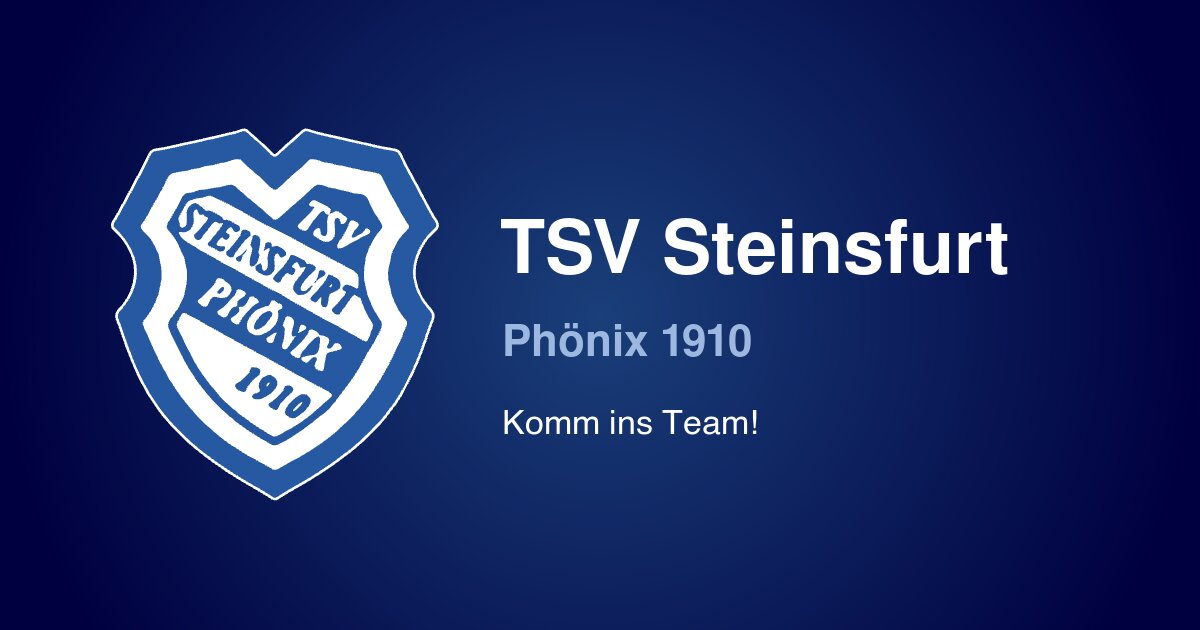
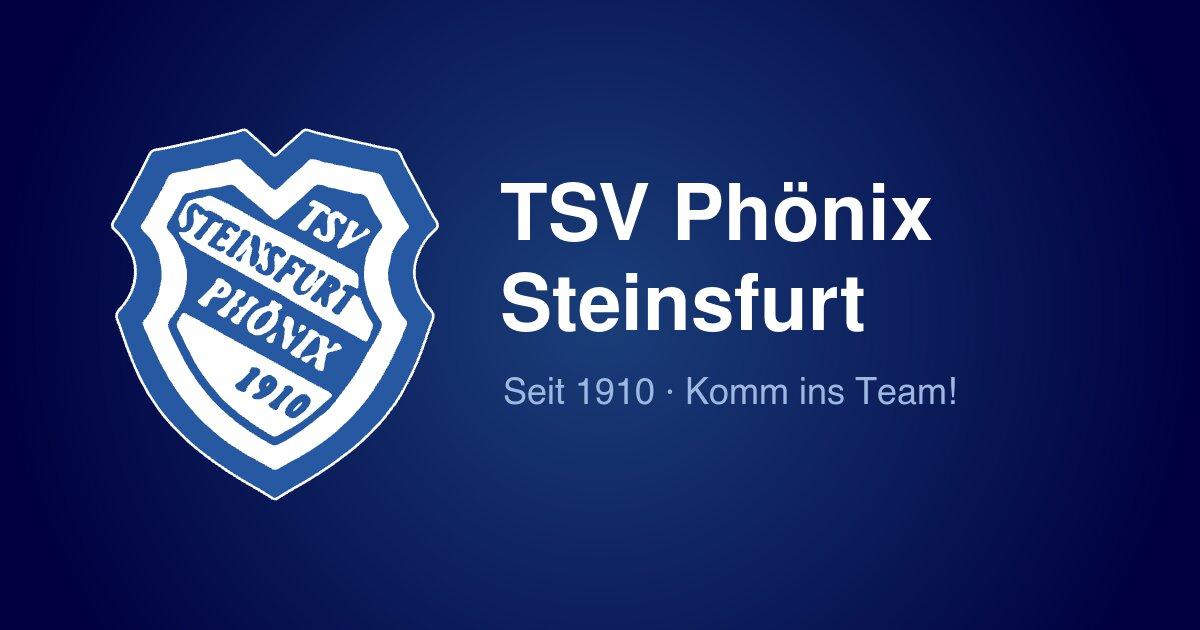
Rename club to "TSV Phönix Steinsfurt" everywhere
Page titles, hero eyebrow, about text, address, footer, imprint
placeholder, logo alt/aria labels, share image and README. Technical
identifiers (domain, e-mail addresses, file names, AWS stacks) are
unchanged.

Changed region(s): [[0.4008, 0.2714, 0.8633, 0.573], [0.4008, 0.6032, 0.8017, 0.6937]]

diff --git a/README.md b/README.md
@@ -1,6 +1,6 @@
-# TSV Steinsfurt – Recruitment One-Pager
+# TSV Phönix Steinsfurt – Recruitment One-Pager
 
-A single scrolling page that wins new players (aged 16–40) for TSV Steinsfurt. It's built with **Astro** as a static site and hosted on **AWS** (S3 in `eu-central-1` / Frankfurt behind CloudFront). It's deployed by **GitHub Actions**.
+A single scrolling page that wins new players (aged 16–40) for TSV Phönix Steinsfurt. It's built with **Astro** as a static site and hosted on **AWS** (S3 in `eu-central-1` / Frankfurt behind CloudFront). It's deployed by **GitHub Actions**.
 
 - German at `/`, English at `/en/`. The DE/EN switch sits top right.
 - No tracking and no cookies. Fonts are self-hosted.
